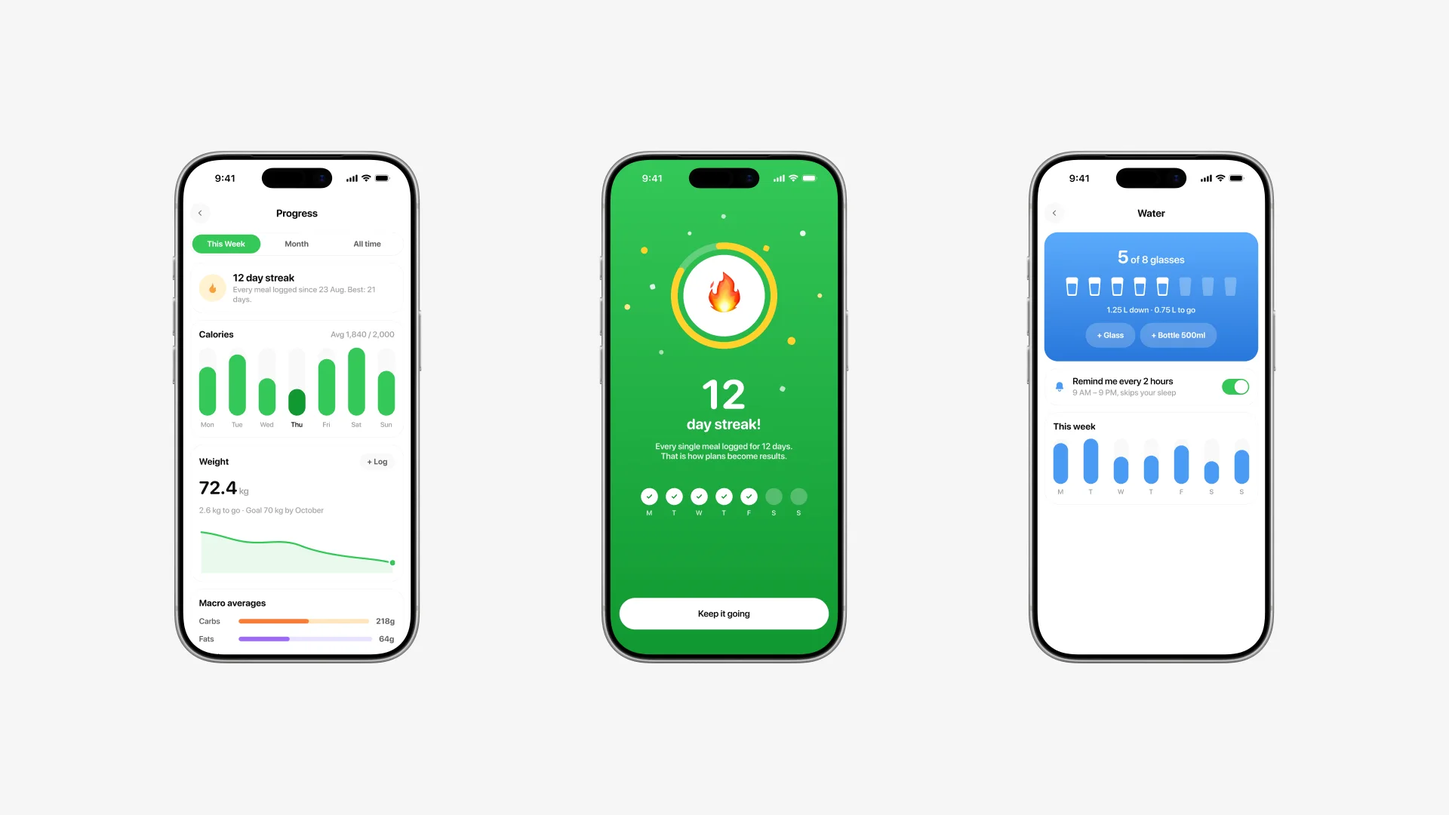
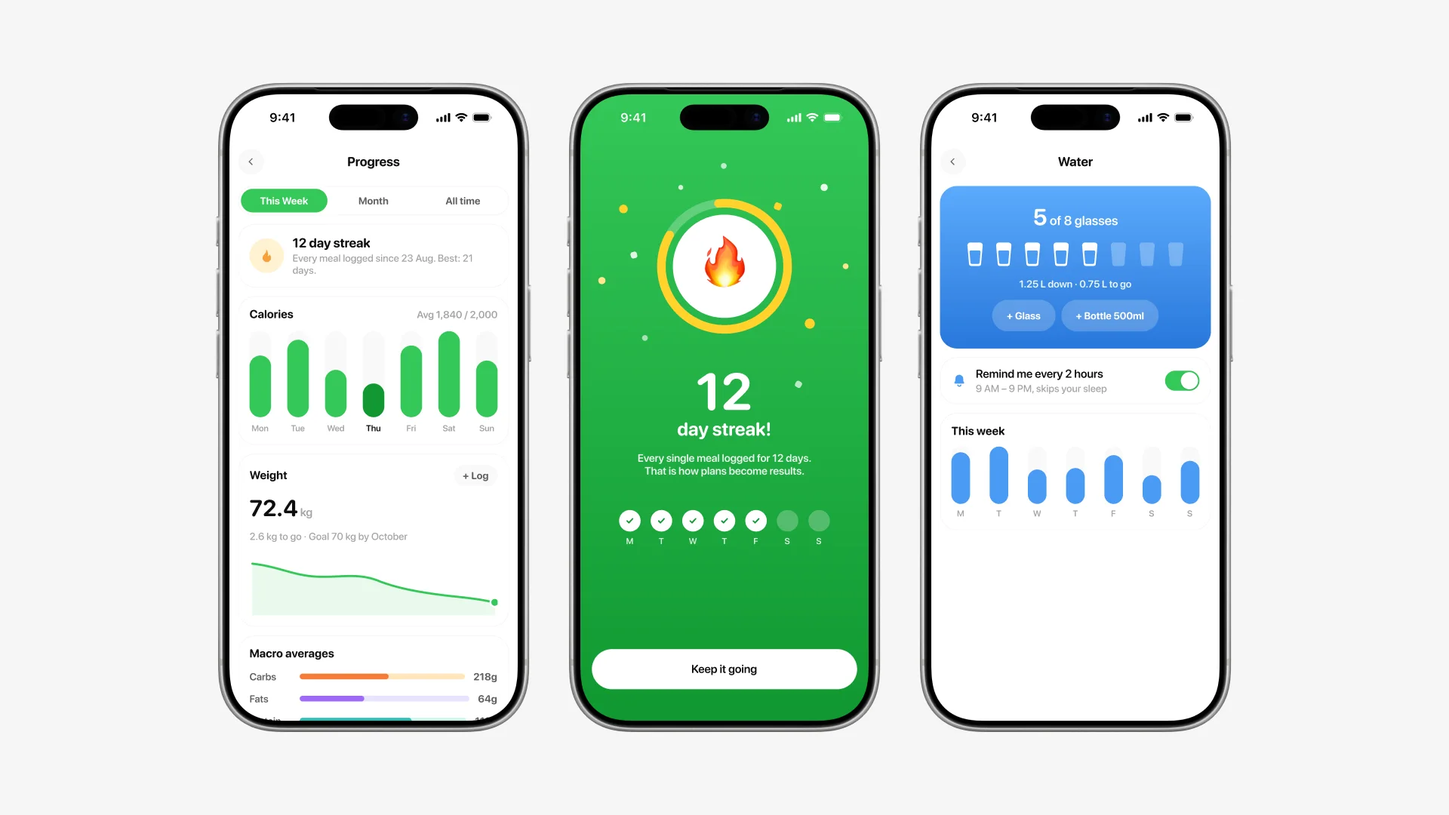
kcalo: deck at top, motion clips as small horizontal strip, full-bleed scrollers, dark-mode fixes
- deck hscroll moved to just after the intro with a short lead-in
- six motion clips collapse into one 260px horizontal strip in The small movements
- hscroll strips are full-bleed (100vw) with 420px slides
- block-btn no longer overrides .btn's inline-flex, so the label centers again
- hscroll items and video-loop get background-clip: padding-box in dark so the
  white plate stops reading as a ring around rounded corners
- bigger bezels / tighter gap on the five trio export slides + duo, re-exported

Changed region(s): [[0.0938, 0.0917, 0.9062, 0.9167]]

diff --git a/case-studies/kcalo.html b/case-studies/kcalo.html
@@ -337,7 +337,7 @@
           <div class="prose read-prose"><p>This one has no client and no users, and says so up front. The brief was mine: take one sharp idea and carry it the whole distance a real product goes. Research, flows, wireframes, a token system, a component library, thirty-one screens with their empty and error states, motion, a brand, six posters, an App Store listing and a ten-slide pitch. One Figma file.</p><p>It started as a single screen: a design entry on this site called <em>Plate</em>, one day of eating on one page. This study is that screen carried the whole distance, and it kept the test the screen was built for. Everyone has installed a calorie tracker; nobody still uses one. The apps work. The logging is what dies. And the same people who will not type a meal photograph their meals constantly. The behaviour already exists. Kcalo reroutes it.</p><figure class="figure">
         <div class="frame" data-zoom data-tilt-3d><img src="/plate-assets/top.webp" alt="The Kcalo home screen in a device frame: Today header, week strip, the green hero card and meal cards" loading="lazy" decoding="async"></div>
         <figcaption>The screen it grew from.</figcaption>
-      </figure><p class="block-btn"><a class="btn btn-dark" href="https://www.figma.com/design/izblJrOLpLaz3KAcyICKZa/Kcalo-Health-App?node-id=23-40" target="_blank" rel="noopener">Open the full Figma file</a></p><h2 id="the-homework">The homework</h2><p>The plan asked three questions and named the bar: does anyone still log on day five? Six interviews, a dietitian, a two-week diary study where four people re-tried their old trackers, 180 store reviews tagged, and thirty real mixed Kerala plates photographed to see if a photo can even be itemised by eye.</p><figure class="figure">
+      </figure><p class="block-btn"><a class="btn btn-dark" href="https://www.figma.com/design/izblJrOLpLaz3KAcyICKZa/Kcalo-Health-App?node-id=23-40" target="_blank" rel="noopener">Open the full Figma file</a></p><p>The short version first. Ten slides carry the whole argument. Scroll through them, tap any to zoom. The rest of this page expands each one.</p><div class="hscroll" role="group" aria-label="The ten-slide pitch deck"><div class="hscroll-item" data-zoom><img src="/kcalo-assets/deck-01.webp" alt="Deck slide 1: cover" loading="lazy" decoding="async"></div><div class="hscroll-item" data-zoom><img src="/kcalo-assets/deck-02.webp" alt="Deck slide 2: tracking works, nobody lasts" loading="lazy" decoding="async"></div><div class="hscroll-item" data-zoom><img src="/kcalo-assets/deck-03.webp" alt="Deck slide 3: the camera is the keyboard" loading="lazy" decoding="async"></div><div class="hscroll-item" data-zoom><img src="/kcalo-assets/deck-04.webp" alt="Deck slide 4: one app, four jobs" loading="lazy" decoding="async"></div><div class="hscroll-item" data-zoom><img src="/kcalo-assets/deck-05.webp" alt="Deck slide 5: five seconds start to logged" loading="lazy" decoding="async"></div><div class="hscroll-item" data-zoom><img src="/kcalo-assets/deck-06.webp" alt="Deck slide 6: a plan, not a calculator" loading="lazy" decoding="async"></div><div class="hscroll-item" data-zoom><img src="/kcalo-assets/deck-07.webp" alt="Deck slide 7: built to be kept" loading="lazy" decoding="async"></div><div class="hscroll-item" data-zoom><img src="/kcalo-assets/deck-08.webp" alt="Deck slide 8: one system under every screen" loading="lazy" decoding="async"></div><div class="hscroll-item" data-zoom><img src="/kcalo-assets/deck-09.webp" alt="Deck slide 9: the brand travels" loading="lazy" decoding="async"></div><div class="hscroll-item" data-zoom><img src="/kcalo-assets/deck-10.webp" alt="Deck slide 10: free on iOS this autumn" loading="lazy" decoding="async"></div></div><h2 id="the-homework">The homework</h2><p>The plan asked three questions and named the bar: does anyone still log on day five? Six interviews, a dietitian, a two-week diary study where four people re-tried their old trackers, 180 store reviews tagged, and thirty real mixed Kerala plates photographed to see if a photo can even be itemised by eye.</p><figure class="figure">
         <div class="frame" data-zoom data-tilt-3d><img src="/kcalo-assets/ux/v2-plan.webp" alt="The research plan board: three research questions as cards and the method with its counts" loading="lazy" decoding="async"></div>
         <figcaption>Three questions, and the Day-5 test as the bar.</figcaption>
       </figure><p>The interviews kept landing the same two blows: effort and shame. Nobody quit over a bad calorie day. And the thread that became the product came from three people describing the same interface without knowing it — a nurse photographing dinner for his wife, a mother photographing the pot, a dietitian estimating calories from client photos on WhatsApp all day.</p><figure class="figure">
@@ -376,7 +376,7 @@
       </figure><figure class="figure">
         <div class="frame" data-zoom data-tilt-3d><img src="/kcalo-assets/tokens-colour.webp" alt="Eight colour swatch cards with hex values and usage rules" loading="lazy" decoding="async"></div>
         <figcaption>Every colour with its one job written on the card.</figcaption>
-      </figure><h2 id="the-card-the-app-hangs-off">The card the app hangs off</h2><p>The hero card answers the only question that matters at a glance: how much is left today. And on open, it earns the glance — the card settles in, the ring draws itself to where the day stands, and the macro bars fill in turn. The motion is the state, animated; nothing moves that does not mean something.</p><figure class="figure"><div class="video-loop"><video autoplay loop muted playsinline preload="metadata" src="/kcalo-assets/motion-hero.mp4"></video></div><figcaption>The load-in: ring draws, bars fill, pill settles. Built with Figma motion keyframes.</figcaption></figure><figure class="figure">
+      </figure><h2 id="the-card-the-app-hangs-off">The card the app hangs off</h2><p>The hero card answers the only question that matters at a glance: how much is left today. And on open, it earns the glance — the card settles in, the ring draws itself to where the day stands, and the macro bars fill in turn. The load-in lives with the other clips in the motion strip further down; nothing moves that does not mean something.</p><figure class="figure">
         <div class="frame" data-zoom data-tilt-3d><img src="/kcalo-assets/hero-card.webp" alt="The green hero card enlarged: calories left, the eaten pill, the flame ring and three macro bars" loading="lazy" decoding="async"></div>
         <figcaption>One glance: what is left, how it is going.</figcaption>
       </figure><figure class="figure">
@@ -388,13 +388,13 @@
       </figure><figure class="figure">
         <div class="frame" data-zoom data-tilt-3d><img src="/kcalo-assets/meal-card.webp" alt="The breakfast meal card enlarged with photo rows and stat chips" loading="lazy" decoding="async"></div>
         <figcaption>The photo is the log, so the photo stays.</figcaption>
-      </figure><h2 id="the-five-seconds">The five seconds</h2><p>The scan flow is the product: camera, a three-second analyzing state that says what it is doing, and an itemised result. The result arrives as a sheet over the day — the transition below is the actual motion spec, not an illustration of it.</p><figure class="figure">
+      </figure><h2 id="the-five-seconds">The five seconds</h2><p>The scan flow is the product: camera, a three-second analyzing state that says what it is doing, and an itemised result. The result arrives as a sheet over the day; the transition itself sits in the motion strip, exported straight from the keyframes.</p><figure class="figure">
         <div class="frame" data-zoom data-tilt-3d><img src="/kcalo-assets/scan-flow.webp" alt="Three device frames: the camera, the analyzing state and the itemised result" loading="lazy" decoding="async"></div>
         <figcaption>Snap, three seconds, itemised.</figcaption>
-      </figure><figure class="figure"><div class="video-loop"><video autoplay loop muted playsinline preload="metadata" src="/kcalo-assets/motion-sheet.mp4"></video></div><figcaption>Result arrives as a sheet over the day. The scrim is the only ceremony.</figcaption></figure><figure class="figure">
+      </figure><figure class="figure">
         <div class="frame" data-zoom data-tilt-3d><img src="/kcalo-assets/zoom-macros.webp" alt="The three macro cards from the result sheet, enlarged" loading="lazy" decoding="async"></div>
         <figcaption>Three cards, three colours, no legend needed.</figcaption>
-      </figure><figure class="figure"><div class="video-loop"><video autoplay loop muted playsinline preload="metadata" src="/kcalo-assets/motion-scan.mp4"></video></div><figcaption>The analyzing state: the spinner works, the checklist reports.</figcaption></figure><figure class="figure">
+      </figure><figure class="figure">
         <div class="frame" data-zoom data-tilt-3d><img src="/kcalo-assets/search.webp" alt="Three device frames: add food, search results and the food detail" loading="lazy" decoding="async"></div>
         <figcaption>Search stays a real path — recents first, dead ends offer a way out.</figcaption>
       </figure><h2 id="a-plan-not-a-calculator">A plan, not a calculator</h2><figure class="figure">
@@ -406,13 +406,13 @@
       </figure><figure class="figure">
         <div class="frame" data-zoom data-tilt-3d><img src="/kcalo-assets/paywall-goals.webp" alt="Two device frames: the Pro paywall and the daily goals editor" loading="lazy" decoding="async"></div>
         <figcaption>The paywall comes after the value, not before.</figcaption>
-      </figure><h2 id="built-to-be-kept">Built to be kept</h2><p>The habit layer works because it is merciful. Streaks pause instead of resetting, going over goal turns the card warm orange with a walk suggestion, and the reward for logging is the ring moving. Confetti is reserved for streak milestones, because this is dinner, not a casino.</p><figure class="figure"><div class="video-loop"><video autoplay loop muted playsinline preload="metadata" src="/kcalo-assets/motion-streak.mp4"></video></div><figcaption>Day 12: the ring pops, the week checks in one by one.</figcaption></figure><figure class="figure">
+      </figure><h2 id="built-to-be-kept">Built to be kept</h2><p>The habit layer works because it is merciful. Streaks pause instead of resetting, going over goal turns the card warm orange with a walk suggestion, and the reward for logging is the ring moving. Confetti is reserved for streak milestones, because this is dinner, not a casino.</p><figure class="figure">
         <div class="frame" data-zoom data-tilt-3d><img src="/kcalo-assets/habits.webp" alt="Three device frames: progress charts, the streak celebration and the water tracker" loading="lazy" decoding="async"></div>
         <figcaption>Progress, streaks, water — small wins on one board.</figcaption>
       </figure><figure class="figure">
         <div class="frame" data-zoom data-tilt-3d><img src="/kcalo-assets/edges.webp" alt="Three device frames: the empty first day, the orange over-goal state and offline" loading="lazy" decoding="async"></div>
         <figcaption>Empty, over, offline: drawn, not left to chance.</figcaption>
-      </figure><h2 id="the-small-movements">The small movements</h2><p>Micro-interactions were built as real Figma motion, keyframe by keyframe, and exported straight from the file. A toggle that overshoots a little. A button that gives under the thumb and ripples once. Small enough to miss, which is the point.</p><figure class="figure"><div class="video-loop"><video autoplay loop muted playsinline preload="metadata" src="/kcalo-assets/motion-toggle.mp4"></video></div><figcaption>The toggle: knob stretches, settles with a slight overshoot.</figcaption></figure><figure class="figure"><div class="video-loop"><video autoplay loop muted playsinline preload="metadata" src="/kcalo-assets/motion-button.mp4"></video></div><figcaption>The press: 6% give, one quiet ripple.</figcaption></figure><figure class="figure">
+      </figure><h2 id="the-small-movements">The small movements</h2><p>All six clips were built as real Figma motion, keyframe by keyframe, and exported straight from the file: the hero card load-in, the result sheet arriving, the day-12 streak, the analyzing state, a toggle that overshoots a little, and a button that gives under the thumb and ripples once. Small enough to miss, which is the point.</p><div class="hscroll" role="group" aria-label="Motion clips"><div class="hscroll-item"><video autoplay loop muted playsinline preload="metadata" src="/kcalo-assets/motion-hero.mp4"></video></div><div class="hscroll-item"><video autoplay loop muted playsinline preload="metadata" src="/kcalo-assets/motion-sheet.mp4"></video></div><div class="hscroll-item"><video autoplay loop muted playsinline preload="metadata" src="/kcalo-assets/motion-streak.mp4"></video></div><div class="hscroll-item"><video autoplay loop muted playsinline preload="metadata" src="/kcalo-assets/motion-scan.mp4"></video></div><div class="hscroll-item"><video autoplay loop muted playsinline preload="metadata" src="/kcalo-assets/motion-toggle.mp4"></video></div><div class="hscroll-item"><video autoplay loop muted playsinline preload="metadata" src="/kcalo-assets/motion-button.mp4"></video></div></div><figure class="figure">
         <div class="frame" data-zoom data-tilt-3d><img src="/kcalo-assets/zoom-controls.webp" alt="Enlarged controls: day cells, the macro bars on green, a toggle, a stat chip and the primary button" loading="lazy" decoding="async"></div>
         <figcaption>The controls, at reading distance.</figcaption>
       </figure><figure class="figure">
@@ -427,7 +427,7 @@
       </figure><h2 id="the-brand-travelling">The brand, travelling</h2><p>The mark is the product’s own progress ring with the flame inside; the brand work extracted it rather than inventing it. Four logo variants, the icon set, and six posters in three voices: launch, product, and the kind one about the sadya.</p><figure class="figure">
         <div class="frame" data-zoom data-tilt-3d><img src="/kcalo-assets/brand-system.webp" alt="Logo variants and the twenty-icon set on tiles" loading="lazy" decoding="async"></div>
         <figcaption>Four marks, twenty icons, one hand.</figcaption>
-      </figure><div class="hscroll" role="group" aria-label="Six social posters"><div class="hscroll-item" data-zoom><img src="/kcalo-assets/poster-launch.webp" alt="Launch poster: Snap it, Track it on the green gradient" loading="lazy" decoding="async"></div><div class="hscroll-item" data-zoom><img src="/kcalo-assets/poster-product.webp" alt="Product poster: Know what you ate in five seconds, with the hero card" loading="lazy" decoding="async"></div><div class="hscroll-item" data-zoom><img src="/kcalo-assets/poster-streak.webp" alt="Dark streak poster: Day 12, streaks that survive wedding season" loading="lazy" decoding="async"></div><div class="hscroll-item" data-zoom><img src="/kcalo-assets/posters-3.webp" alt="Three more posters: Know your numbers, One photo Logged, and Log the sadya" loading="lazy" decoding="async"></div><div class="hscroll-item" data-zoom><img src="/kcalo-assets/posters-2.webp" alt="The streak poster in dark and light variants" loading="lazy" decoding="async"></div></div><p>The store listing tells the loop in six frames — scroll through them, tap to zoom — and the deck compresses the whole argument into ten slides.</p><div class="hscroll" role="group" aria-label="App Store screenshots"><div class="hscroll-item" data-zoom><img src="/kcalo-assets/appstore-01.webp" alt="App Store frame 1: Snap your meal" loading="lazy" decoding="async"></div><div class="hscroll-item" data-zoom><img src="/kcalo-assets/appstore-02.webp" alt="App Store frame 2: Counted in seconds" loading="lazy" decoding="async"></div><div class="hscroll-item" data-zoom><img src="/kcalo-assets/appstore-03.webp" alt="App Store frame 3: Your day, one glance" loading="lazy" decoding="async"></div><div class="hscroll-item" data-zoom><img src="/kcalo-assets/appstore-04.webp" alt="App Store frame 4: Watch it trend" loading="lazy" decoding="async"></div><div class="hscroll-item" data-zoom><img src="/kcalo-assets/appstore-05.webp" alt="App Store frame 5: Streaks that stick" loading="lazy" decoding="async"></div><div class="hscroll-item" data-zoom><img src="/kcalo-assets/appstore-06.webp" alt="App Store frame 6: A plan built for you" loading="lazy" decoding="async"></div></div><div class="hscroll" role="group" aria-label="The ten-slide pitch deck"><div class="hscroll-item" data-zoom><img src="/kcalo-assets/deck-01.webp" alt="Deck slide 1: cover" loading="lazy" decoding="async"></div><div class="hscroll-item" data-zoom><img src="/kcalo-assets/deck-02.webp" alt="Deck slide 2: tracking works, nobody lasts" loading="lazy" decoding="async"></div><div class="hscroll-item" data-zoom><img src="/kcalo-assets/deck-03.webp" alt="Deck slide 3: the camera is the keyboard" loading="lazy" decoding="async"></div><div class="hscroll-item" data-zoom><img src="/kcalo-assets/deck-04.webp" alt="Deck slide 4: one app, four jobs" loading="lazy" decoding="async"></div><div class="hscroll-item" data-zoom><img src="/kcalo-assets/deck-05.webp" alt="Deck slide 5: five seconds start to logged" loading="lazy" decoding="async"></div><div class="hscroll-item" data-zoom><img src="/kcalo-assets/deck-06.webp" alt="Deck slide 6: a plan, not a calculator" loading="lazy" decoding="async"></div><div class="hscroll-item" data-zoom><img src="/kcalo-assets/deck-07.webp" alt="Deck slide 7: built to be kept" loading="lazy" decoding="async"></div><div class="hscroll-item" data-zoom><img src="/kcalo-assets/deck-08.webp" alt="Deck slide 8: one system under every screen" loading="lazy" decoding="async"></div><div class="hscroll-item" data-zoom><img src="/kcalo-assets/deck-09.webp" alt="Deck slide 9: the brand travels" loading="lazy" decoding="async"></div><div class="hscroll-item" data-zoom><img src="/kcalo-assets/deck-10.webp" alt="Deck slide 10: free on iOS this autumn" loading="lazy" decoding="async"></div></div><h2 id="decisions-dated">Decisions, dated</h2><p>Every call that shaped the thing sits in a dated log with its evidence, from killing the tab bar to banning red mornings. The honest next step for any concept closes it: put the prototype in front of Meera, Ajmal and Rukiya’s one free hand, and run the Day-5 test for real.</p><figure class="figure">
+      </figure><div class="hscroll" role="group" aria-label="Six social posters"><div class="hscroll-item" data-zoom><img src="/kcalo-assets/poster-launch.webp" alt="Launch poster: Snap it, Track it on the green gradient" loading="lazy" decoding="async"></div><div class="hscroll-item" data-zoom><img src="/kcalo-assets/poster-product.webp" alt="Product poster: Know what you ate in five seconds, with the hero card" loading="lazy" decoding="async"></div><div class="hscroll-item" data-zoom><img src="/kcalo-assets/poster-streak.webp" alt="Dark streak poster: Day 12, streaks that survive wedding season" loading="lazy" decoding="async"></div><div class="hscroll-item" data-zoom><img src="/kcalo-assets/posters-3.webp" alt="Three more posters: Know your numbers, One photo Logged, and Log the sadya" loading="lazy" decoding="async"></div><div class="hscroll-item" data-zoom><img src="/kcalo-assets/posters-2.webp" alt="The streak poster in dark and light variants" loading="lazy" decoding="async"></div></div><p>The store listing tells the loop in six frames — scroll through them, tap any to zoom.</p><div class="hscroll" role="group" aria-label="App Store screenshots"><div class="hscroll-item" data-zoom><img src="/kcalo-assets/appstore-01.webp" alt="App Store frame 1: Snap your meal" loading="lazy" decoding="async"></div><div class="hscroll-item" data-zoom><img src="/kcalo-assets/appstore-02.webp" alt="App Store frame 2: Counted in seconds" loading="lazy" decoding="async"></div><div class="hscroll-item" data-zoom><img src="/kcalo-assets/appstore-03.webp" alt="App Store frame 3: Your day, one glance" loading="lazy" decoding="async"></div><div class="hscroll-item" data-zoom><img src="/kcalo-assets/appstore-04.webp" alt="App Store frame 4: Watch it trend" loading="lazy" decoding="async"></div><div class="hscroll-item" data-zoom><img src="/kcalo-assets/appstore-05.webp" alt="App Store frame 5: Streaks that stick" loading="lazy" decoding="async"></div><div class="hscroll-item" data-zoom><img src="/kcalo-assets/appstore-06.webp" alt="App Store frame 6: A plan built for you" loading="lazy" decoding="async"></div></div><h2 id="decisions-dated">Decisions, dated</h2><p>Every call that shaped the thing sits in a dated log with its evidence, from killing the tab bar to banning red mornings. The honest next step for any concept closes it: put the prototype in front of Meera, Ajmal and Rukiya’s one free hand, and run the Day-5 test for real.</p><figure class="figure">
         <div class="frame" data-zoom data-tilt-3d><img src="/kcalo-assets/ux/v2-decisions.webp" alt="A dated decision log board with nine rows, each shipped" loading="lazy" decoding="async"></div>
         <figcaption>Dated, so it stays settled.</figcaption>
       </figure><p class="block-btn"><a class="btn btn-dark" href="https://www.figma.com/design/izblJrOLpLaz3KAcyICKZa/Kcalo-Health-App?node-id=23-40" target="_blank" rel="noopener">Explore everything in the Figma file</a></p></div>

diff --git a/case-studies/kcalo.js b/case-studies/kcalo.js
@@ -15,6 +15,20 @@ BODY('kcalo', {
     { t: 'image', src: '/plate-assets/top.webp', alt: 'The Kcalo home screen in a device frame: Today header, week strip, the green hero card and meal cards', caption: 'The screen it grew from.' },
     { t: 'button', href: 'https://www.figma.com/design/izblJrOLpLaz3KAcyICKZa/Kcalo-Health-App?node-id=23-40', label: 'Open the full Figma file' },
 
+    { t: 'p', x: 'The short version first. Ten slides carry the whole argument. Scroll through them, tap any to zoom. The rest of this page expands each one.' },
+    { t: 'hscroll', label: 'The ten-slide pitch deck', items: [
+      { src: '/kcalo-assets/deck-01.webp', alt: 'Deck slide 1: cover' },
+      { src: '/kcalo-assets/deck-02.webp', alt: 'Deck slide 2: tracking works, nobody lasts' },
+      { src: '/kcalo-assets/deck-03.webp', alt: 'Deck slide 3: the camera is the keyboard' },
+      { src: '/kcalo-assets/deck-04.webp', alt: 'Deck slide 4: one app, four jobs' },
+      { src: '/kcalo-assets/deck-05.webp', alt: 'Deck slide 5: five seconds start to logged' },
+      { src: '/kcalo-assets/deck-06.webp', alt: 'Deck slide 6: a plan, not a calculator' },
+      { src: '/kcalo-assets/deck-07.webp', alt: 'Deck slide 7: built to be kept' },
+      { src: '/kcalo-assets/deck-08.webp', alt: 'Deck slide 8: one system under every screen' },
+      { src: '/kcalo-assets/deck-09.webp', alt: 'Deck slide 9: the brand travels' },
+      { src: '/kcalo-assets/deck-10.webp', alt: 'Deck slide 10: free on iOS this autumn' },
+    ] },
+
     { t: 'h2', x: 'The homework' },
     { t: 'p', x: 'The plan asked three questions and named the bar: does anyone still log on day five? Six interviews, a dietitian, a two-week diary study where four people re-tried their old trackers, 180 store reviews tagged, and thirty real mixed Kerala plates photographed to see if a photo can even be itemised by eye.' },
     { t: 'image', src: '/kcalo-assets/ux/v2-plan.webp', alt: 'The research plan board: three research questions as cards and the method with its counts', caption: 'Three questions, and the Day-5 test as the bar.' },
@@ -47,19 +61,16 @@ BODY('kcalo', {
     { t: 'image', src: '/kcalo-assets/tokens-colour.webp', alt: 'Eight colour swatch cards with hex values and usage rules', caption: 'Every colour with its one job written on the card.' },
 
     { t: 'h2', x: 'The card the app hangs off' },
-    { t: 'p', x: 'The hero card answers the only question that matters at a glance: how much is left today. And on open, it earns the glance — the card settles in, the ring draws itself to where the day stands, and the macro bars fill in turn. The motion is the state, animated; nothing moves that does not mean something.' },
-    { t: 'video', loop: true, src: '/kcalo-assets/motion-hero.mp4', caption: 'The load-in: ring draws, bars fill, pill settles. Built with Figma motion keyframes.' },
+    { t: 'p', x: 'The hero card answers the only question that matters at a glance: how much is left today. And on open, it earns the glance — the card settles in, the ring draws itself to where the day stands, and the macro bars fill in turn. The load-in lives with the other clips in the motion strip further down; nothing moves that does not mean something.' },
     { t: 'image', src: '/kcalo-assets/hero-card.webp', alt: 'The green hero card enlarged: calories left, the eaten pill, the flame ring and three macro bars', caption: 'One glance: what is left, how it is going.' },
     { t: 'image', src: '/kcalo-assets/week-strip.webp', alt: 'The week strip enlarged: logged dots and the selected day as a green pill', caption: 'A dot per logged day. That is the whole calendar.' },
     { t: 'image', src: '/kcalo-assets/home.webp', alt: 'The home screen in a device frame', caption: 'The day, one glance.' },
     { t: 'image', src: '/kcalo-assets/meal-card.webp', alt: 'The breakfast meal card enlarged with photo rows and stat chips', caption: 'The photo is the log, so the photo stays.' },
 
     { t: 'h2', x: 'The five seconds' },
-    { t: 'p', x: 'The scan flow is the product: camera, a three-second analyzing state that says what it is doing, and an itemised result. The result arrives as a sheet over the day — the transition below is the actual motion spec, not an illustration of it.' },
+    { t: 'p', x: 'The scan flow is the product: camera, a three-second analyzing state that says what it is doing, and an itemised result. The result arrives as a sheet over the day; the transition itself sits in the motion strip, exported straight from the keyframes.' },
     { t: 'image', src: '/kcalo-assets/scan-flow.webp', alt: 'Three device frames: the camera, the analyzing state and the itemised result', caption: 'Snap, three seconds, itemised.' },
-    { t: 'video', loop: true, src: '/kcalo-assets/motion-sheet.mp4', caption: 'Result arrives as a sheet over the day. The scrim is the only ceremony.' },
     { t: 'image', src: '/kcalo-assets/zoom-macros.webp', alt: 'The three macro cards from the result sheet, enlarged', caption: 'Three cards, three colours, no legend needed.' },
-    { t: 'video', loop: true, src: '/kcalo-assets/motion-scan.mp4', caption: 'The analyzing state: the spinner works, the checklist reports.' },
     { t: 'image', src: '/kcalo-assets/search.webp', alt: 'Three device frames: add food, search results and the food detail', caption: 'Search stays a real path — recents first, dead ends offer a way out.' },
 
     { t: 'h2', x: 'A plan, not a calculator' },
@@ -69,14 +80,19 @@ BODY('kcalo', {
 
     { t: 'h2', x: 'Built to be kept' },
     { t: 'p', x: 'The habit layer works because it is merciful. Streaks pause instead of resetting, going over goal turns the card warm orange with a walk suggestion, and the reward for logging is the ring moving. Confetti is reserved for streak milestones, because this is dinner, not a casino.' },
-    { t: 'video', loop: true, src: '/kcalo-assets/motion-streak.mp4', caption: 'Day 12: the ring pops, the week checks in one by one.' },
     { t: 'image', src: '/kcalo-assets/habits.webp', alt: 'Three device frames: progress charts, the streak celebration and the water tracker', caption: 'Progress, streaks, water — small wins on one board.' },
     { t: 'image', src: '/kcalo-assets/edges.webp', alt: 'Three device frames: the empty first day, the orange over-goal state and offline', caption: 'Empty, over, offline: drawn, not left to chance.' },
 
     { t: 'h2', x: 'The small movements' },
-    { t: 'p', x: 'Micro-interactions were built as real Figma motion, keyframe by keyframe, and exported straight from the file. A toggle that overshoots a little. A button that gives under the thumb and ripples once. Small enough to miss, which is the point.' },
-    { t: 'video', loop: true, src: '/kcalo-assets/motion-toggle.mp4', caption: 'The toggle: knob stretches, settles with a slight overshoot.' },
-    { t: 'video', loop: true, src: '/kcalo-assets/motion-button.mp4', caption: 'The press: 6% give, one quiet ripple.' },
+    { t: 'p', x: 'All six clips were built as real Figma motion, keyframe by keyframe, and exported straight from the file: the hero card load-in, the result sheet arriving, the day-12 streak, the analyzing state, a toggle that overshoots a little, and a button that gives under the thumb and ripples once. Small enough to miss, which is the point.' },
+    { t: 'hscroll', label: 'Motion clips', items: [
+      { video: '/kcalo-assets/motion-hero.mp4' },
+      { video: '/kcalo-assets/motion-sheet.mp4' },
+      { video: '/kcalo-assets/motion-streak.mp4' },
+      { video: '/kcalo-assets/motion-scan.mp4' },
+      { video: '/kcalo-assets/motion-toggle.mp4' },
+      { video: '/kcalo-assets/motion-button.mp4' },
+    ] },
     { t: 'image', src: '/kcalo-assets/zoom-controls.webp', alt: 'Enlarged controls: day cells, the macro bars on green, a toggle, a stat chip and the primary button', caption: 'The controls, at reading distance.' },
     { t: 'image', src: '/kcalo-assets/zoom-ring.webp', alt: 'The flame progress ring enlarged on a green circle', caption: 'The ring: yellow arc on a quiet track, flame at home.' },
 
@@ -94,7 +110,7 @@ BODY('kcalo', {
       { src: '/kcalo-assets/posters-3.webp', alt: 'Three more posters: Know your numbers, One photo Logged, and Log the sadya' },
       { src: '/kcalo-assets/posters-2.webp', alt: 'The streak poster in dark and light variants' },
     ] },
-    { t: 'p', x: 'The store listing tells the loop in six frames — scroll through them, tap to zoom — and the deck compresses the whole argument into ten slides.' },
+    { t: 'p', x: 'The store listing tells the loop in six frames — scroll through them, tap any to zoom.' },
     { t: 'hscroll', label: 'App Store screenshots', items: [
       { src: '/kcalo-assets/appstore-01.webp', alt: 'App Store frame 1: Snap your meal' },
       { src: '/kcalo-assets/appstore-02.webp', alt: 'App Store frame 2: Counted in seconds' },
@@ -102,18 +118,6 @@ BODY('kcalo', {
       { src: '/kcalo-assets/appstore-04.webp', alt: 'App Store frame 4: Watch it trend' },
       { src: '/kcalo-assets/appstore-05.webp', alt: 'App Store frame 5: Streaks that stick' },
       { src: '/kcalo-assets/appstore-06.webp', alt: 'App Store frame 6: A plan built for you' },
-    ] },
-    { t: 'hscroll', label: 'The ten-slide pitch deck', items: [
-      { src: '/kcalo-assets/deck-01.webp', alt: 'Deck slide 1: cover' },
-      { src: '/kcalo-assets/deck-02.webp', alt: 'Deck slide 2: tracking works, nobody lasts' },
-      { src: '/kcalo-assets/deck-03.webp', alt: 'Deck slide 3: the camera is the keyboard' },
-      { src: '/kcalo-assets/deck-04.webp', alt: 'Deck slide 4: one app, four jobs' },
-      { src: '/kcalo-assets/deck-05.webp', alt: 'Deck slide 5: five seconds start to logged' },
-      { src: '/kcalo-assets/deck-06.webp', alt: 'Deck slide 6: a plan, not a calculator' },
-      { src: '/kcalo-assets/deck-07.webp', alt: 'Deck slide 7: built to be kept' },
-      { src: '/kcalo-assets/deck-08.webp', alt: 'Deck slide 8: one system under every screen' },
-      { src: '/kcalo-assets/deck-09.webp', alt: 'Deck slide 9: the brand travels' },
-      { src: '/kcalo-assets/deck-10.webp', alt: 'Deck slide 10: free on iOS this autumn' },
     ] },
 
     { t: 'h2', x: 'Decisions, dated' },

diff --git a/styles.css b/styles.css
@@ -210,7 +210,9 @@
    is a solid colour. Clipping the plate to the padding box lets the
    hairline composite over the page instead, which is what makes it read as
    an edge rather than an outline. */
-[data-theme='dark'] .frame {
+[data-theme='dark'] .frame,
+[data-theme='dark'] .hscroll .hscroll-item,
+[data-theme='dark'] .video-loop {
   background-clip: padding-box;
   border-color: rgba(255, 255, 255, 0.1);
 }
@@ -1935,14 +1937,15 @@ a.tile:hover {
   margin: 0;
 }
 
-/* horizontal image strip — deck slides, store screenshots */
+/* horizontal image strip — deck slides, store screenshots. Full-bleed. */
 .hscroll {
   display: flex;
   gap: 14px;
   overflow-x: auto;
-  margin: 2em 0;
-  padding-bottom: 10px;
-  scroll-snap-type: x mandatory;
+  width: 100vw;
+  margin: 2em 0 2em calc(50% - 50vw);
+  padding: 2px max(24px, calc(50vw - 50%)) 12px;
+  scroll-snap-type: x proximity;
   -webkit-overflow-scrolling: touch;
 }
 
@@ -1957,13 +1960,26 @@ a.tile:hover {
 }
 
 .hscroll .hscroll-item img {
-  height: 320px;
+  height: 420px;
+  width: auto;
+  display: block;
+}
+
+/* motion strips: small looping clips in a row */
+.hscroll .hscroll-item video {
+  height: 260px;
   width: auto;
   display: block;
 }
 
 .block-btn {
   margin: 2em 0;
+}
+
+.block-btn .btn {
+  text-decoration: none;
+  border-bottom: none;
+  color: var(--invert-ink);
 }
 
 /* autoplaying loop clips exported from Figma motion */

diff --git a/blocks.js b/blocks.js
@@ -258,13 +258,17 @@ const renderBlock = (b) => {
 
     case 'hscroll':
       return `<div class="hscroll" role="group" aria-label="${esc(b.label || 'Image strip')}">${(b.items || [])
-        .map(
-          (it) => `<div class="hscroll-item"${it.src ? ' data-zoom' : ''}>${
+        .map((it) => {
+          if (it.video)
+            return `<div class="hscroll-item"><video autoplay loop muted playsinline preload="metadata" src="${esc(
+              it.video
+            )}"></video></div>`;
+          return `<div class="hscroll-item"${it.src ? ' data-zoom' : ''}>${
             it.src
               ? `<img src="${esc(it.src)}" alt="${esc(it.alt || '')}" loading="lazy" decoding="async">`
               : placeholder(it.alt || 'Screenshot')
-          }</div>`
-        )
+          }</div>`;
+        })
         .join('')}</div>`;
 
     case 'button':
